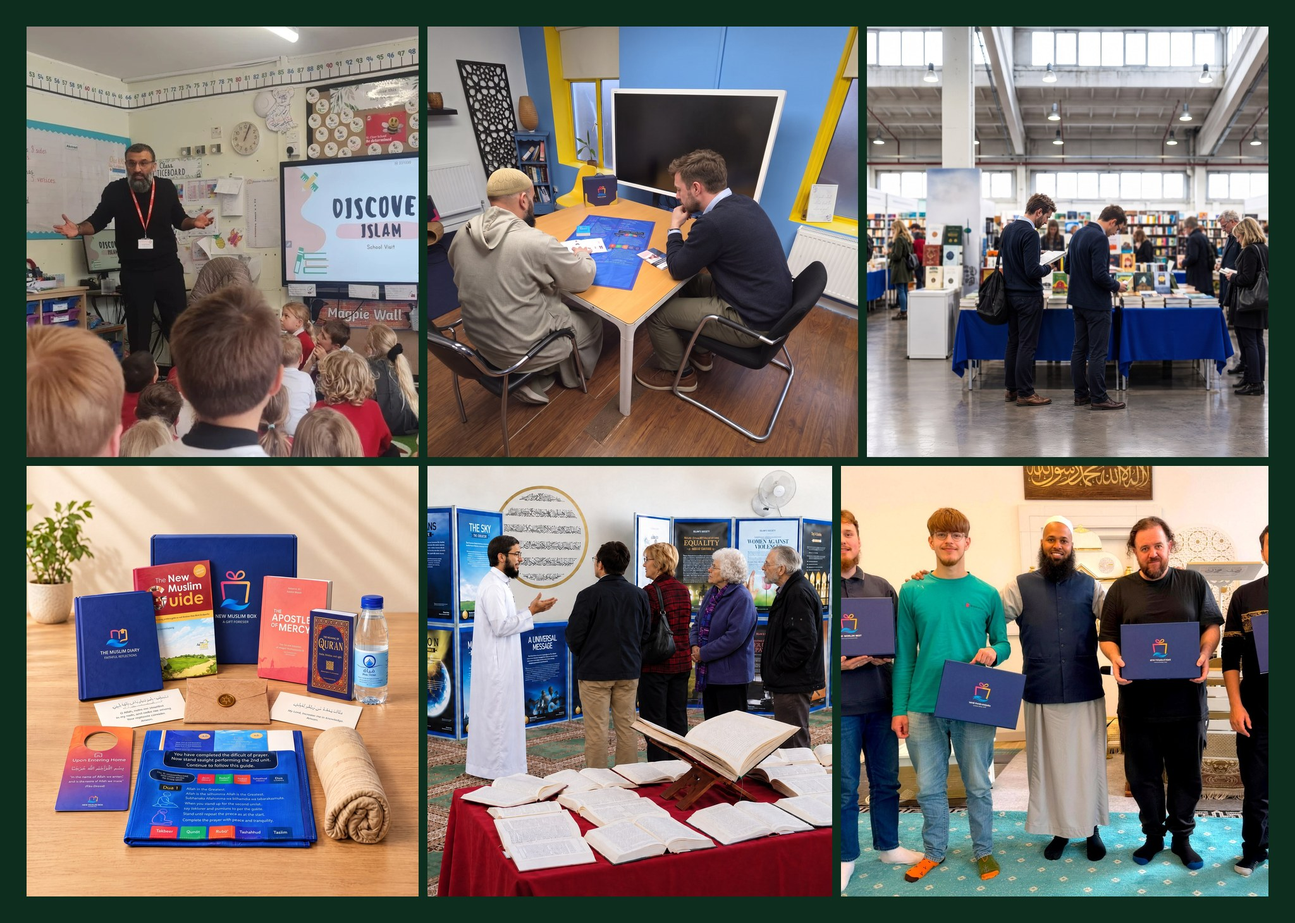
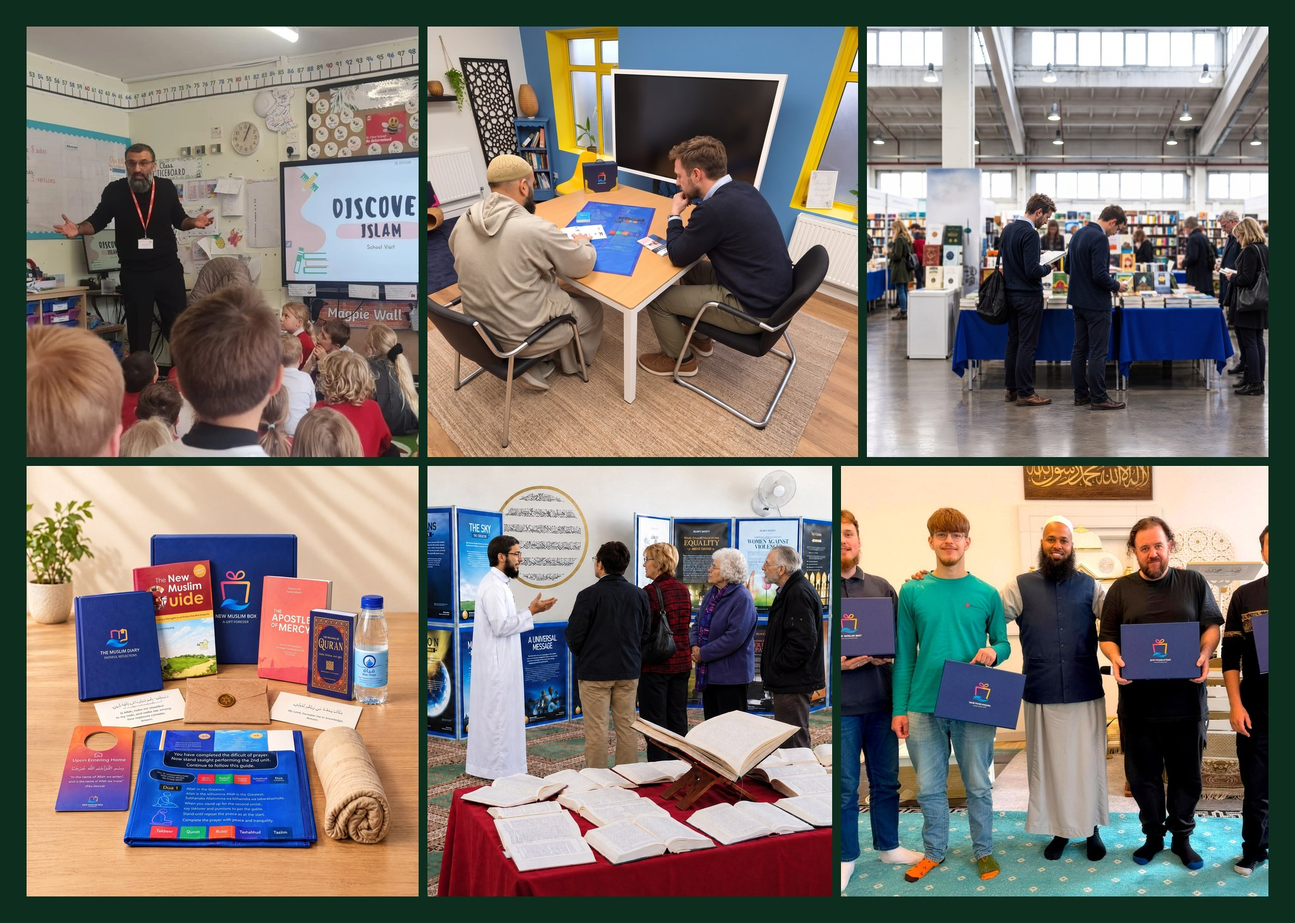
Arabic booklet: new discussion photo on page 10 and in the page 3 collage
Replace discussion.jpg with discussion2.jpg (same scene, cleaner shot);
re-extend it to a square for the collage tile and rebuild the collage.

Changed region(s): [[0.3125, 0.0308, 0.6875, 0.4932]]

diff --git a/index.html b/index.html
@@ -861,7 +861,7 @@ body.rtl .dots{flex-direction:row-reverse}
     <div class="page-foot"><b>2</b></div>
   </article>
   <article class="page arp photo on-dark di-theme">
-    <img class="bg collage" src="assets/p2-collage.jpg?v=8f019833" alt="" style="object-position:50% 50%;transform:scale(1.029)">
+    <img class="bg collage" src="assets/p2-collage.jpg?v=16bc5ff7" alt="" style="object-position:50% 50%;transform:scale(1.029)">
     <div class="shade"></div>
     <div class="inner">
       <span class="chip"><span>من نحن</span></span>
@@ -972,7 +972,7 @@ body.rtl .dots{flex-direction:row-reverse}
 <!-- pages 10–11 -->
 <section class="sheet spread" data-label="الصفحتان 10–11 · مركز المسلم الجديد ودعم المسلمين الجدد" hidden>
   <article class="page arp photo on-dark di-theme right">
-    <img class="bg" src="assets/discussion.jpg?v=3001e000" alt="" style="object-position:50% 20%">
+    <img class="bg" src="assets/discussion2.jpg?v=7fa91e9c" alt="" style="object-position:50% 20%">
     <div class="shade"></div>
     <div class="inner">
       <span class="chip"><span>مركز المسلم الجديد</span></span>
